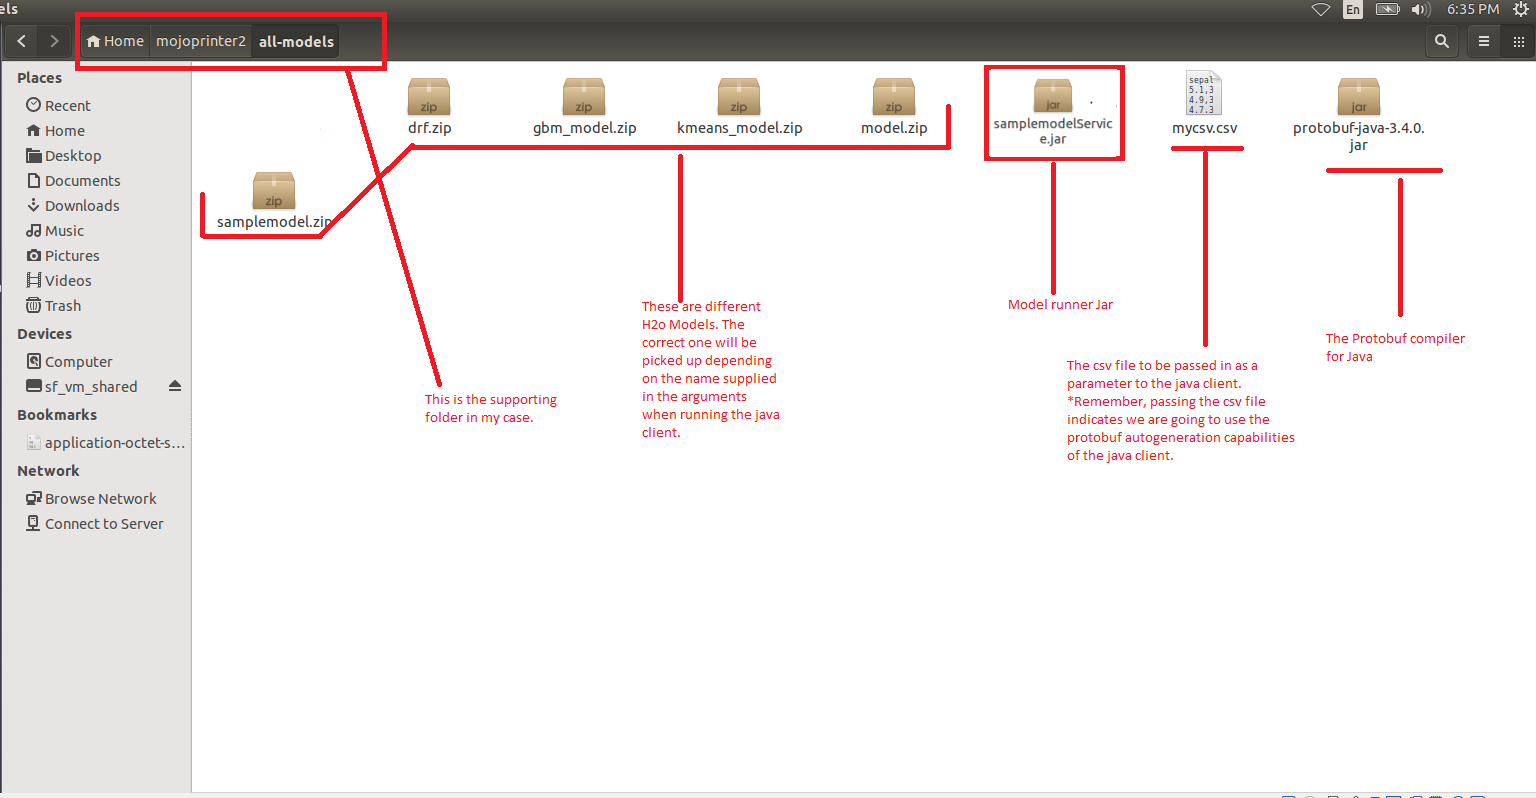
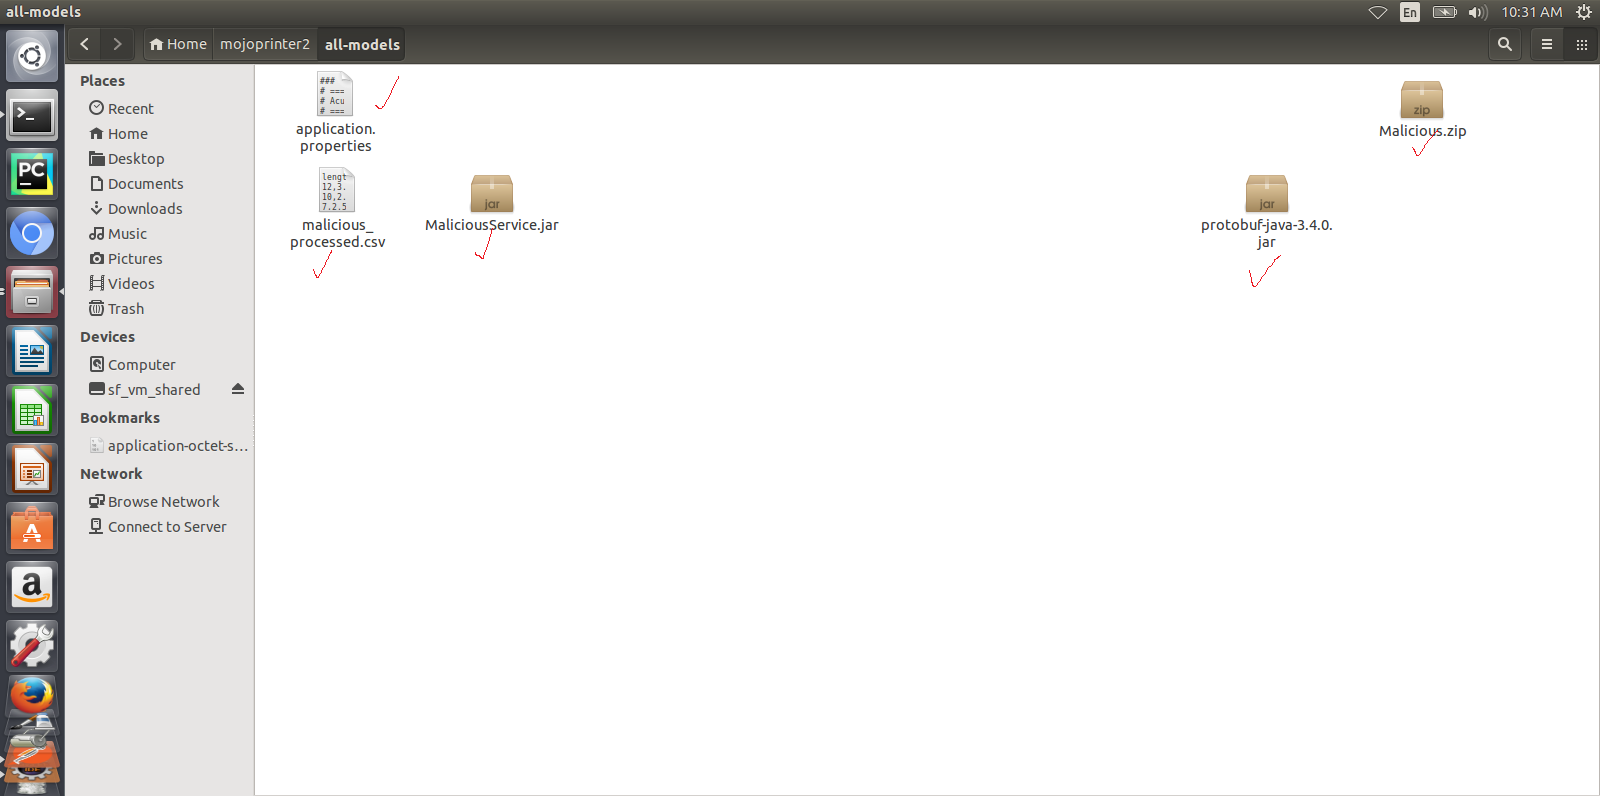
Update Documentation
Update documentation partially

Issue-ID: ACUMOS-1449

diff --git a/docs/developer-guide.rst b/docs/developer-guide.rst
@@ -129,14 +129,18 @@ Preparing to Onboard your H2o or a Generic Java Model:
 ------------------------------------------------------
 a. Place Java Client jar in one folder locally. This is the folder from which you intend to run the jar. After the jar runs, the created artifacts will also be available in this folder. You will use some of these artifacts if you are doing Web-based onboarding. We will see this later.
 
-b. Create an additional supporting folder which will contain all that the Java Client jar needs to run. It will contain-
+ |image0|
 
-i) Models - In case of H2o, your model will be a MOJO zip file. In case of Generic Java, your model will be .jar file. We have included sample models for you to play around with.
-ii) Model runner or Service jar - For H2O rename h2o-genericjava-modelrunner.jar obtained from the 1st section to H2OModelService.jar. Place it in this folder.
-Rename the jar as GenericModelService.jar for Generic Java onboarding
-iii) csv file used for training the model - Place the csv file (with header having the same column names used for training) you used for training the model here. This is used for autogenerating the .proto file. If you don't have the .proto file, you will have to supply the .proto file yourself in the supporting folder. Make sure you name it default.proto
-iv) default.proto - This is only needed if you don't have the csv file used to train the model. In this case, Java Client cannot autogenerate the .proto file. You will have to supply the .proto file yourself in the supporting folder. Make sure you name it default.proto Also make sure, 
-the default.proto file for the model is in the following format. You need to appropriately replace the data and datatypes under DataFrameRow and Prediction according to your model.
+b. Prepare a supporting folder with the following contents. Items of this folder will be used as input for the java client jar. 
+
+ |image1|
+
+It will contain-
+i) Models - In case of H2o, your model will be a MOJO zip file.  In case of Generic Java, the model will be a jar file.
+ii) Protobuf compiler for java version 3.4.0 - Download protobuf-java-3.4.0.jar from http://central.maven.org/maven2/com/google/protobuf/protobuf-java/3.4.0/ and place it in this folder.
+iii) Model runner or Service jar - For H2O rename h2o-genericjava-modelrunner.jar obtained from the 1st section to abcService.jar if your model name is abc. Place it in this folder. 
+iv) csv file used for training the model - Place the csv file (with header having the same column names used for training but without the quotes (“ ”) ) you used for training the model here. This is used for autogenerating the .proto file. If you don’t have the .proto file, you will have to supply the .proto file yourself in the supporting folder. Make sure you name it default.proto.
+v)  default.proto - This is only needed if you don’t have the csv file used to train the model. In this case, Java Client cannot autogenerate the .proto file. You will have to supply the .proto file yourself in the supporting folder. Make sure you name it default.proto Also make sure, the default.proto file for the model is in the following format. You need to appropriately replace the data and datatypes under DataFrameRow and Prediction according to your model.
 
 .. code-block:: python
 
@@ -162,7 +166,56 @@ the default.proto file for the model is in the following format. You need to app
    }
 
 vi) application.properties file - Mention the port number on which the service exposed by the model will finally run on.
+
+
+.. code-block:: python
+
+   server.contextPath=/modelrunner       
+   # IF WORKING WITH MODEL CONNECTOR AND COMPOSITE SOLUTION, THE #server.contextPath will be / 
+   # NOTE: THIS WILL TAKE AWAY SWAGGER
+   # This is the port number you want to run the service on. User may select a convenient port.
+   server.port=8336
+
+   spring.http.multipart.max-file-size=100MB
+   spring.http.multipart.max-request-size=100MB
+
+   # Linux version
+
+   # if model_type is Generic Java, then default_model will be /models/model.jar
+   # if model_type is H2o, then the default_model will be /models/Model.zip
+   
+   #default_model=/models/model.jar
+   default_model=/models/Model.zip
+  
+   default_protofile=/models/default.proto
+
+   logging.file = ./logs/modelrunner.log 
+
+   # The value of model_type can be H or G
+   # if model is Generic java model, then model_type is G.
+   # if model is H2o model, then model_type is H. And the /predict method will use H2O model; otherwise, it will use generic Model
+   # if model_type is not present, then the default is H
+  
+   #model_type=G
+   model_type=H
+   model_config=/models/modelConfig.properties
+
+   # Linux some properties are specific to java generic models
+
+   # The plugin_root path has to be outside of ModelRunner root or the code won't work 
+   # Default proto java file, classes and jar
+   # DatasetProto.java will be in $plugin_root\src
+   # DatasetProto$*.classes will be in $plugin_root\classes
+   # pbuff.jar will be in $plugin_root\classes
+
+   plugin_root=/tmp/plugins
+
+
+
 vii) modelConfig.properties - Add this file only in case of Generic Java model onboarding. This file contains the modelMethod and modelClassName of the model.
+
+modelClassName=org.acumos.ml.XModel
+modelMethod=predict
 
 
 ---------------------
@@ -171,13 +224,18 @@ Onboarding your model
 
 Java Client jar is the executable client jar file.
 
-For Web-based onboarding of H2o models, the parameters to run the client jar are: 
+For Web-based onboarding of H2o models, the parameters to run the client jar are:
+1.	Current Folder path : Folder path where you want the output modeldump.zip file.
+2.	Model Type for H2o : H
+3.	Supporting folder path : Full Folder path of the supporting folder which contains items
+4.	Name of the model : For h2o just the name of the model without the .zip extension. Make sure this matches name of the supplied MOJO model file exactly.
+5.	Input csv file : csv file that was used for training the model. Include the .csv extension in the csv file name. This will be used to autogenerate the default.proto file. This parameter will be empty if you yourself have supplied a default.proto for your model.
 
-1. Current Folder path : Full folder path in which Java client jar is placed and run from.
-2. Model Type for H2o : H 
-3. Supporting folder path : Full Folder path of the supporting folder which contains items 
-4. Name of the model : For h2o just the name of the model without the .zip extension. Make sure this matches name of the supplied MOJO model file exactly.
-5. Input csv file : csv file that was used for training the model. Include the .csv extension in the csv file name. This will be used to autogenerate the default.proto file. This parameter will be empty if you yourself have supplied a default.proto for your model.
+See example below for how to run the client jar and how the modeldump.zip artifact appears after its successful run:
+ |image2|
+ 
+ |image3|
+ 
 
 For CLI-based onabording of H2o models, the parameters to run the client jar are: 
 
@@ -210,27 +268,6 @@ For CLI-based onabording of Generic models, the parameters to run the client jar
 7. Password of the Portal MarketPlace account
 8. Input csv file : csv file that was used for training the model. Include the .csv extension in the csv file name. This will be used to autogenerate the default.proto file. This parameter will be empty if you yourself have supplied a default.proto for your model.
 
-----------------------------------------
-Example onboarding and folder structure:
-----------------------------------------
-1. I place my Javaclient.jar in /home/deven/tryoutjavaclient/ folder. This is where I intend to run the jar from. After the jar runs, the created artifacts will also be available in this folder.
-
-|image0|
-
-2. I prepare a supporting folder /home/deven/mojoprinter2/all-models like so. It has everything I need to onboard my java model.
-In this case, I am onboarding samplemodel.zip which is a K-means Clustering H2o model which does partitioning of a large calls dataset.
-
-|image1|
-
-3. I intend to do Web-based onboarding for my H2o model called samplemodel.zip. And I intend to use the proto file autogeneration capabilities of the Java client.
-So I also pass along the csv file I used to train it. The sample command looks like this-
-
-|image2|
-
-4. Now I go back to /home/deven/tryoutjavaclient/ (i.e from where I ran the Java client) to find the generated artifacts. I will now manually upload the metadata.json file, modelpackage.zip and the default.proto file to the web interface of the marketplace.
-
-|image3|
-
  
 How to Test
 ===========
@@ -250,8 +287,11 @@ Onboarding/ Publishing to the Acumos marketplace
 - If you use Web-based onboarding, 
 a. After you run the client, you will see a modeldump.zip file generated in the same folder where we ran the Java Client for.
 b. Upload this file in the Web based interface. 
-c. Enter the model's name. This name should be same as the one you named it when running the jar.
+c. Enter a name for the model.
 d. You will be able to see a success method in the Web interface. you will be able to see a success method in the Web interface. 
+
+ |image9|
+
 - If you use CLI based onboarding,  you don't need to perform a-d outlined just above. The Java client will do it for you. You will see a message on the terminal that tells it was onboarded succesfully.
 - The needed TOSCA artifacts, docker images are produced and the model is published to the marketplace.
 - You and your teammates can now see, rate, review, comment, collaborate on your model in the Acumos marketplace.
@@ -345,7 +385,7 @@ Here is a sample H2o iris example program that shows how a model can be created 
  |image8|
  
 
-.. |image0| image:: ./images/before_running_javaclient.PNG
+.. |image0| image:: ./images/downloaded_java_client.png
 .. |image1| image:: ./images/supporting_folder.PNG
 .. |image2| image:: ./images/running_the_java_client.PNG
 .. |image3| image:: ./images/after_running_java_client.PNG
@@ -354,3 +394,4 @@ Here is a sample H2o iris example program that shows how a model can be created 
 .. |image6| image:: ./images/3.png
 .. |image7| image:: ./images/4.png
 .. |image8| image:: ./images/5.png
+.. |image9| image:: ./images/upload_modeldump.png
